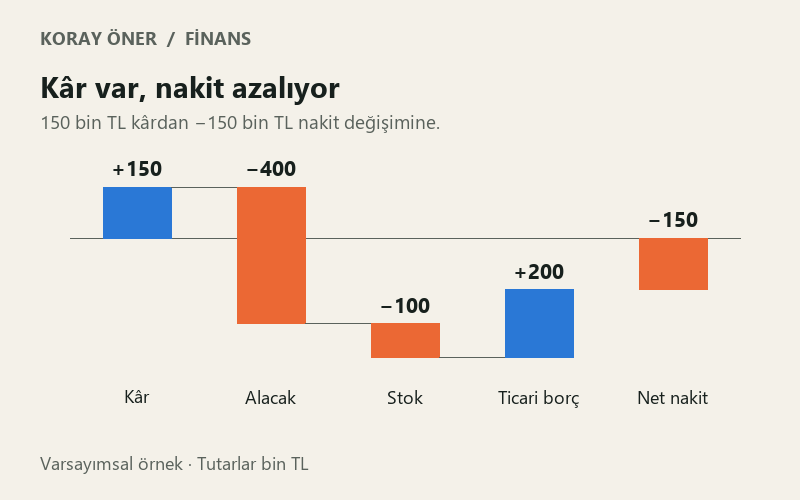
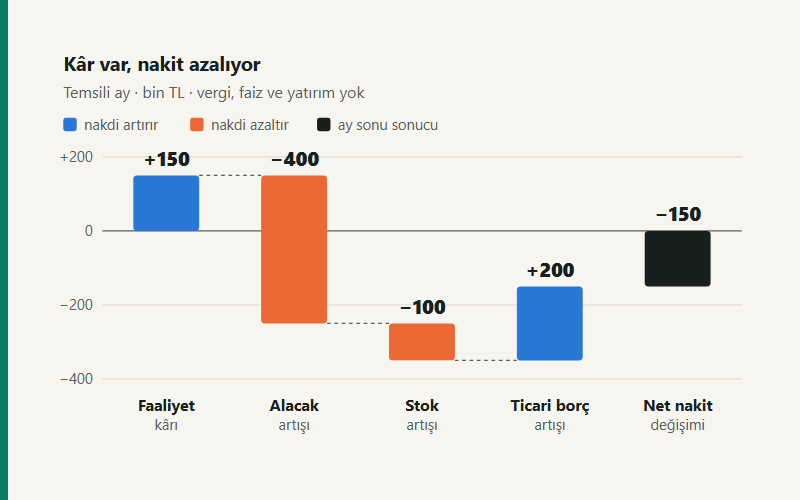
Move the two finance agenda figures into the article figure system
The ciro and enflasyon articles had Pillow-drawn PNGs outside the
system: different ground, no brand stripe, raster text. Both are now
KAPAKLAR entries in tools/makale-gorsel.js, drawn from the articles'
own assumptions (a guard throws if they drift from the text), and get
the same share PNG, card PNG and SVG body figure as every other
article.

The inflation chart now shows the article's point: each bar splits the
previous price from the year's increase, so the rate halving from 40%
to 20% visibly cuts the TL increase only from 400 to 280. The profit
chart is a proper cash bridge with a gridded zero line.

tools/finans-gundemi-gorselleri.py is removed.

diff --git a/tools/makale-gorsel.js b/tools/makale-gorsel.js
@@ -1540,7 +1540,138 @@ function promosyonNetDeger() {
     '" stroke="' + R.izgara + '" stroke-width="1.5"/>' + cubuk + '</svg>';
 }
 
+/* Ciro yazısı — kâr–nakit köprüsü. Varsayımlar yazının sayi-testi.js'iyle
+   aynı: 1.000.000 TL satış, %70 SMM, 150.000 TL gider; alacak +400, stok
+   +100, ticari borç +200 bin TL. Artı adım mavi, eksi adım turuncu; sonuç
+   çubuğu mürekkep: akış değil, varılan yer. */
+function kariNakitKoprusu() {
+  var SATIS = 1000000, SMM = 700000, GIDER = 150000;
+  var kar = (SATIS - SMM - GIDER) / 1000;
+  var adimlar = [
+    { ad: "Faaliyet", ad2: "kârı", v: kar },
+    { ad: "Alacak", ad2: "artışı", v: -400 },
+    { ad: "Stok", ad2: "artışı", v: -100 },
+    { ad: "Ticari borç", ad2: "artışı", v: 200 }
+  ];
+  var net = adimlar.reduce(function (t, a) { return t + a.v; }, 0);
+  var W = 600, H = 360, SOL = 56, SAG = 580, UST = 104, ALT = 286, UST_V = 200, ALT_V = -400;
+  function y(v) { return UST + (ALT - UST) * ((UST_V - v) / (UST_V - ALT_V)); }
+  function isaretli(v) { return (v > 0 ? "+" : v < 0 ? "\u2212" : "") + nf0.format(Math.abs(v)); }
+  var gen = (SAG - SOL) / 5, w = 54;
+
+  var izgara = [200, 0, -200, -400].map(function (v) {
+    return '<path d="M' + SOL + " " + y(v).toFixed(1) + " H" + SAG + '" stroke="' +
+      (v === 0 ? R.ikincil : R.izgara) + '" stroke-width="1"/>' +
+      '<text x="' + (SOL - 8) + '" y="' + (y(v) + 4).toFixed(1) + '" font-size="12" fill="' +
+      R.ikincil + '" text-anchor="end">' + isaretli(v) + "</text>";
+  }).join("");
+
+  var duzey = 0, cubuk = "";
+  adimlar.concat([{ ad: "Net nakit", ad2: "değişimi", v: net, toplam: true }]).forEach(function (a, i) {
+    var bas = a.toplam ? 0 : duzey, son = a.toplam ? net : duzey + a.v;
+    var cx = SOL + gen * (i + 0.5), ust = Math.min(y(bas), y(son)), boy = Math.abs(y(bas) - y(son));
+    var renk = a.toplam ? R.murekkep : (a.v >= 0 ? R.s1 : R.s2);
+    cubuk += '<rect x="' + (cx - w / 2).toFixed(1) + '" y="' + ust.toFixed(1) + '" width="' + w +
+      '" height="' + boy.toFixed(1) + '" rx="3" fill="' + renk + '"/>' +
+      '<text x="' + cx.toFixed(1) + '" y="' + (ust - 8).toFixed(1) + '" text-anchor="middle" font-size="16" ' +
+      'font-weight="800" fill="' + R.murekkep + '">' + isaretli(a.v) + "</text>" +
+      '<text x="' + cx.toFixed(1) + '" y="' + (ALT + 26) + '" text-anchor="middle" font-size="13" ' +
+      'font-weight="700" fill="' + R.murekkep + '">' + esc(a.ad) + "</text>" +
+      '<text x="' + cx.toFixed(1) + '" y="' + (ALT + 42) + '" text-anchor="middle" font-size="12" fill="' +
+      R.ikincil + '">' + esc(a.ad2) + "</text>";
+    if (!a.toplam && i < 3) {
+      cubuk += '<path d="M' + (cx + w / 2).toFixed(1) + " " + y(son).toFixed(1) + " H" +
+        (cx + gen - w / 2).toFixed(1) + '" stroke="' + R.ikincil + '" stroke-width="1" stroke-dasharray="3 3"/>';
+    }
+    duzey = son;
+  });
+  if (net !== -150) throw new Error("kâr–nakit köprüsü yazıyla ayrıştı: " + net);
+
+  function anahtar(x, renk, metin) {
+    return '<rect x="' + x + '" y="72" width="11" height="11" rx="2" fill="' + renk + '"/>' +
+      '<text x="' + (x + 17) + '" y="82" font-size="12" fill="' + R.ikincil + '">' + metin + "</text>";
+  }
+  return '<svg viewBox="0 0 ' + W + " " + H + '" width="' + W + '" height="' + H +
+    '" role="img" aria-label="Faaliyet kârı artı 150 bin TL; alacak, stok ve ticari borç ' +
+    'değişimlerinden sonra net nakit değişimi eksi 150 bin TL">' +
+    '<text x="24" y="34" font-size="16" font-weight="700" fill="' + R.murekkep +
+    '">Kâr var, nakit azalıyor</text>' +
+    '<text x="24" y="56" font-size="13" fill="' + R.ikincil +
+    '">Temsili ay · bin TL · vergi, faiz ve yatırım yok</text>' +
+    anahtar(24, R.s1, "nakdi artırır") + anahtar(128, R.s2, "nakdi azaltır") +
+    anahtar(232, R.murekkep, "ay sonu sonucu") +
+    izgara + cubuk + "</svg>";
+}
+
+/* Enflasyon yazısı — sabit sepet. Oran %40'tan %20'ye yarıya iniyor, ama
+   ikinci artış yükselmiş düzeye uygulandığı için TL artışı yalnız 400'den
+   280'e düşüyor. Çubuk iki parça: önceki fiyat (mavi) + yılın artışı
+   (turuncu). Rakamlar yazının sayi-testi.js'iyle aynı. */
+function sepetOranDuzey() {
+  var BAS = 1000, ORAN = [0.40, 0.20];
+  var d1 = BAS * (1 + ORAN[0]), d2 = d1 * (1 + ORAN[1]);
+  var veri = [
+    { ad: "Başlangıç", ad2: "", onceki: BAS, artis: 0 },
+    { ad: "1. yıl sonu", ad2: "enflasyon %" + Math.round(ORAN[0] * 100), onceki: BAS, artis: d1 - BAS },
+    { ad: "2. yıl sonu", ad2: "enflasyon %" + Math.round(ORAN[1] * 100), onceki: d1, artis: d2 - d1 }
+  ];
+  if (Math.round(d2) !== 1680 || Math.round((d2 / BAS - 1) * 100) !== 68) throw new Error("sepet yazıyla ayrıştı");
+  var W = 600, H = 360, SOL = 40, SAG = 580, UST = 104, ALT = 286, TAVAN = 1800;
+  function y(v) { return ALT - (ALT - UST) * (v / TAVAN); }
+  var gen = (SAG - SOL) / 3, w = 72;
+  var cubuk = "";
+  veri.forEach(function (d, i) {
+    var cx = SOL + gen * (i + 0.5), x0 = cx - w / 2, top = d.onceki + d.artis;
+    cubuk += '<rect x="' + x0.toFixed(1) + '" y="' + y(d.onceki).toFixed(1) + '" width="' + w +
+      '" height="' + (ALT - y(d.onceki)).toFixed(1) + '" rx="3" fill="' + R.s1 + '"/>';
+    if (d.artis) {
+      // 2px zemin boşluğu: iki parça tek blok gibi okunmasın.
+      cubuk += '<rect x="' + x0.toFixed(1) + '" y="' + y(top).toFixed(1) + '" width="' + w +
+        '" height="' + (y(d.onceki) - y(top) - 2).toFixed(1) + '" rx="3" fill="' + R.s2 + '"/>' +
+        '<text x="' + (x0 + w + 10).toFixed(1) + '" y="' + ((y(top) + y(d.onceki)) / 2 + 5).toFixed(1) +
+        '" font-size="14" font-weight="800" fill="' + R.murekkep + '">+' + nf0.format(d.artis) + " TL</text>";
+    }
+    cubuk += '<text x="' + cx.toFixed(1) + '" y="' + (y(top) - 10).toFixed(1) + '" text-anchor="middle" ' +
+      'font-size="16" font-weight="800" fill="' + R.murekkep + '">' + nf0.format(top) + " TL</text>" +
+      '<text x="' + cx.toFixed(1) + '" y="' + (ALT + 26) + '" text-anchor="middle" font-size="13" ' +
+      'font-weight="700" fill="' + R.murekkep + '">' + esc(d.ad) + "</text>" +
+      (d.ad2 ? '<text x="' + cx.toFixed(1) + '" y="' + (ALT + 42) + '" text-anchor="middle" font-size="12" fill="' +
+        R.ikincil + '">' + esc(d.ad2) + "</text>" : "");
+    if (i < 2) {
+      // Bir sonraki yılın artışı bu düzeyin üstüne biniyor.
+      cubuk += '<path d="M' + (x0 + w).toFixed(1) + " " + y(top).toFixed(1) + " H" +
+        (cx + gen - w / 2).toFixed(1) + '" stroke="' + R.ikincil + '" stroke-width="1" stroke-dasharray="3 3"/>';
+    }
+  });
+  function anahtar(x, renk, metin) {
+    return '<rect x="' + x + '" y="72" width="11" height="11" rx="2" fill="' + renk + '"/>' +
+      '<text x="' + (x + 17) + '" y="82" font-size="12" fill="' + R.ikincil + '">' + metin + "</text>";
+  }
+  return '<svg viewBox="0 0 ' + W + " " + H + '" width="' + W + '" height="' + H +
+    '" role="img" aria-label="Varsayımsal sabit sepet 1.000 TL; yüzde 40 artışla 1.400 TL, ' +
+    'sonraki yüzde 20 artışla 1.680 TL olur">' +
+    '<text x="24" y="34" font-size="16" font-weight="700" fill="' + R.murekkep +
+    '">Oran yarıya iniyor, sepet pahalanmaya devam ediyor</text>' +
+    '<text x="24" y="56" font-size="13" fill="' + R.ikincil +
+    '">Varsayımsal sabit sepet · iki yılda toplam artış %' + Math.round((d2 / BAS - 1) * 100) + "</text>" +
+    anahtar(24, R.s1, "önceki fiyat") + anahtar(126, R.s2, "yılın artışı") +
+    '<path d="M' + SOL + " " + ALT + " H" + SAG + '" stroke="' + R.ikincil + '" stroke-width="1"/>' +
+    cubuk + "</svg>";
+}
+
 var KAPAKLAR = {
+  "ciro-artarken-nakit-neden-azalir": {
+    kicker: "Finans · İşletme sermayesi",
+    baslik: "Ciro artarken nakit neden azalır?",
+    alt: "150 bin TL kârdan eksi 150 bin TL nakde",
+    cizim: kariNakitKoprusu
+  },
+  "enflasyon-duserken-fiyatlar-neden-dusmuyor": {
+    kicker: "Finans · Hane bütçesi",
+    baslik: "Enflasyon düşerken fiyatlar neden düşmüyor?",
+    alt: "Artış hızı yarıya iniyor, sepet yine 280 TL pahalanıyor",
+    cizim: sepetOranDuzey
+  },
   "emekli-promosyonunun-ekonomisi": {
     kicker: "Finans",
     baslik: "Emekli promosyonunun ekonomisi",

diff --git a/makaleler/ciro-artarken-nakit-neden-azalir/index.html b/makaleler/ciro-artarken-nakit-neden-azalir/index.html
@@ -171,7 +171,7 @@
 <p>Nakit köprüsünü sade tutmak için örnekte vergi, KDV, faiz, amortisman, yatırım harcaması ve kredi hareketi bulunmuyor. Bütün satışlar aynı dönemde gelir olarak kaydediliyor; iadeler ve tahsil edilemeyen alacaklar yok. Stoklar maliyetle, ticari alacaklar satış tutarıyla izleniyor. Bunlar Türkiye’deki işletmelerin ortalaması değil, hesap varsayımlarıdır.</p>
 <div class="table-wrap" role="region" aria-label="Kârdan nakde geçiş" tabindex="0"><table><caption>Temsili ayın kâr–nakit köprüsü</caption><thead><tr><th scope="col">Kalem</th><th scope="col">Nakit hesabına etkisi</th></tr></thead><tbody><tr><th scope="row">Faaliyet kârı</th><td>+150.000 TL</td></tr><tr><th scope="row">Ticari alacak artışı</th><td>−400.000 TL</td></tr><tr><th scope="row">Stok artışı</th><td>−100.000 TL</td></tr><tr><th scope="row">Ticari borç artışı</th><td>+200.000 TL</td></tr><tr><th scope="row">Faaliyetten net nakit değişimi</th><td><strong>−150.000 TL</strong></td></tr></tbody></table></div>
 <p>Alacak artışı, kayda giren satışın bir bölümünün henüz tahsil edilmediğini gösterir. Stok artışı, satılan malların maliyetinden daha fazla mal alındığı anlamına gelir. Ticari borç artışı ise alımların bir bölümünün henüz ödenmediğini, tedarikçinin işletmeyi finanse ettiğini gösterir. Bu örnekte dönem başındaki 250.000 TL nakit, dönem sonunda 100.000 TL’ye iner.</p>
-<figure class="ed-veri-gorseli"><img src="../../images/makale/ciro-artarken-nakit-neden-azalir-kart.png" width="800" height="500" decoding="async" alt="Temsili ayda faaliyet kârı artı 150 bin TL iken alacak, stok ve ticari borç değişimleri sonunda nakit değişimi eksi 150 bin TL olur."><figcaption>Alacak ve stokta bağlı kalan para, tedarikçi vadesinin sağladığı finansmanı aşıyor. Kârın artması aynı ayın nakit bakiyesini artırmaya yetmiyor.</figcaption></figure>
+<figure class="ed-veri-gorseli"><img src="../../images/makale/ciro-artarken-nakit-neden-azalir-kart.svg" width="800" height="500" decoding="async" alt="Temsili ayda faaliyet kârı artı 150 bin TL iken alacak, stok ve ticari borç değişimleri sonunda nakit değişimi eksi 150 bin TL olur."><figcaption>Alacak ve stokta bağlı kalan para, tedarikçi vadesinin sağladığı finansmanı aşıyor. Kârın artması aynı ayın nakit bakiyesini artırmaya yetmiyor.</figcaption></figure>
 <p>Hesabı tahsilat ve ödemelerden de kontrol edebiliriz: 1.000.000 TL satıştan alacak artışı çıkarılınca tahsilat 600.000 TL olur. 700.000 TL satılan mal maliyetine 100.000 TL stok artışı eklenince alım 800.000 TL’dir. Bunun 200.000 TL’si ticari borç artışıyla ertelendiği için tedarikçiye ödeme 600.000 TL olur. Diğer 150.000 TL gider de ödendiğinde <code>600.000 − 600.000 − 150.000 = −150.000 TL</code> kalır.</p>
 <p>Kârın nakit dışı unsurlar ve işletme sermayesi değişimleriyle düzeltilmesi, nakit akışı analizinin temel ayrımıdır. Buradaki köprü basitleştirilmiştir; bir şirketin tam finansal tablosu veya mevzuata uygun raporlama şablonu olarak kullanılmamalıdır. <a href="https://www.ifrs.org/issued-standards/list-of-standards/ias-7-statement-of-cash-flows/">Kaynak: IFRS Foundation, IAS 7 — Nakit Akış Tablosu.</a></p>
 <h2 id="dongu">Vade uzadığında kaç lira daha bağlanır?</h2>

diff --git a/makaleler/enflasyon-duserken-fiyatlar-neden-dusmuyor/index.html b/makaleler/enflasyon-duserken-fiyatlar-neden-dusmuyor/index.html
@@ -169,7 +169,7 @@
 <p>Bu iki oran farklı sorulara cevap verir. Yıllık oran, Ağustos 2026’yı Ağustos 2025’le; aylık oran, Ağustos 2026’yı Temmuz 2026’yla karşılaştırır. “Bu ay fiyatlar %31,51 arttı” demek yanlış olur. Aynı şekilde %1,84’ü gelecek her ay için gerçekleşecekmiş gibi kullanmak da bir tahmini veri yerine koyar. Bu yazının veri kesim tarihi <strong>22 Eylül 2026</strong>; henüz açıklanmamış eylül ayı gerçekleşmesine ilişkin bir iddia içermez.</p>
 <h2 id="duzey">1.000 TL’lik sepet üzerinden oran ve düzey</h2>
 <p>Fiyatı başlangıçta 1.000 TL olan değişmeyen bir sepet düşünün. Birinci yıl fiyatı %40 artarsa 1.400 TL olur. İkinci yıl enflasyon %20’ye düşerse yeni fiyat 1.680 TL’dir. Artış oranı yarıya inmiştir; fakat sepet ikinci yılda da 280 TL pahalanmıştır. İki yıllık toplam artış %60 değil, <strong>%68</strong> olur: ikinci artış, ilk yılın sonunda yükselmiş olan tutara uygulanır.</p>
-<figure class="ed-veri-gorseli"><img src="../../images/makale/enflasyon-duserken-fiyatlar-neden-dusmuyor-kart.png" width="800" height="500" decoding="async" alt="Varsayımsal sabit sepet başlangıçta 1.000 TL, yüzde 40 artıştan sonra 1.400 TL ve sonraki yüzde 20 artıştan sonra 1.680 TL olur."><figcaption>Artış hızı %40’tan %20’ye inerken sepetin fiyatı yükselmeye devam eder. Değerler açıklayıcı bir örnektir; Türkiye’nin gerçekleşmiş yıllık serisi değildir.</figcaption></figure>
+<figure class="ed-veri-gorseli"><img src="../../images/makale/enflasyon-duserken-fiyatlar-neden-dusmuyor-kart.svg" width="800" height="500" decoding="async" alt="Varsayımsal sabit sepet başlangıçta 1.000 TL, yüzde 40 artıştan sonra 1.400 TL ve sonraki yüzde 20 artıştan sonra 1.680 TL olur."><figcaption>Artış hızı %40’tan %20’ye inerken sepetin fiyatı yükselmeye devam eder. Değerler açıklayıcı bir örnektir; Türkiye’nin gerçekleşmiş yıllık serisi değildir.</figcaption></figure>
 <p>Bu örnekteki yavaşlama <em>dezenflasyon</em>dur. Fiyatlar genel düzeyinin düşmesi ise <em>deflasyon</em>dur. Tek bir üründe indirim görülmesi, bütün ekonomide deflasyon yaşandığını göstermez. Benzer biçimde tek bir faturanın çok yükselmesi de genel endeksin aynı oranda arttığı anlamına gelmez. <a href="https://www.tcmb.gov.tr/wps/wcm/connect/2d9f2c1d-18eb-4124-8fd9-a4ea189a24ad/100soruweb1.pdf?MOD=AJPERES">Kaynak: TCMB, Enflasyon ve Para Politikası.</a></p>
 <p>Oran ile tutarı ayırmak günlük planlamayı kolaylaştırır. Tamamen temsili olarak, 50.000 TL’lik değişmeyen bir sepetin fiyatı bir ayda %1,84 artsa yeni maliyeti 50.920 TL olur. Bu işlem, ülke ortalamasını sizin bütçenize uygulayan bir senaryodur; her hanenin ağustos ayında tam 920 TL ek harcama yaptığını söylemez.</p>
 <h2 id="baz">Baz etkisi: karşılaştırmanın diğer tarafı da değişir</h2>

diff --git a/makaleler/index.html b/makaleler/index.html
@@ -214,7 +214,7 @@
           <li class="ed-item">
             <figure class="ed-figure">
               <a href="enflasyon-duserken-fiyatlar-neden-dusmuyor/" tabindex="-1" aria-hidden="true">
-                <img class="ed-cover" src="../images/makale/enflasyon-duserken-fiyatlar-neden-dusmuyor-kart.png" width="800" height="500"
+                <img class="ed-cover" src="../images/makale/enflasyon-duserken-fiyatlar-neden-dusmuyor-kart.svg" width="800" height="500"
                      sizes="(max-width: 700px) 100vw, 260px" alt="Sabit sepetin fiyatı başlangıçta 1.000 TL, ilk artışla 1.400 TL, daha düşük ikinci artışla 1.680 TL oluyor." loading="lazy" decoding="async">
               </a>
             </figure>
@@ -234,7 +234,7 @@
           <li class="ed-item">
             <figure class="ed-figure">
               <a href="ciro-artarken-nakit-neden-azalir/" tabindex="-1" aria-hidden="true">
-                <img class="ed-cover" src="../images/makale/ciro-artarken-nakit-neden-azalir-kart.png" width="800" height="500"
+                <img class="ed-cover" src="../images/makale/ciro-artarken-nakit-neden-azalir-kart.svg" width="800" height="500"
                      sizes="(max-width: 700px) 100vw, 260px" alt="Artı 150.000 TL faaliyet kârından alacak, stok ve borç değişimlerine geçildiğinde eksi 150.000 TL nakit hareketi oluşuyor." loading="lazy" decoding="async">
               </a>
             </figure>

diff --git a/index.html b/index.html
@@ -1790,7 +1790,7 @@
           <li class="ed-item">
             <figure class="ed-figure">
               <a href="makaleler/enflasyon-duserken-fiyatlar-neden-dusmuyor/" tabindex="-1" aria-hidden="true">
-                <img class="ed-cover" src="images/makale/enflasyon-duserken-fiyatlar-neden-dusmuyor-kart.png" width="800" height="500"
+                <img class="ed-cover" src="images/makale/enflasyon-duserken-fiyatlar-neden-dusmuyor-kart.svg" width="800" height="500"
                      sizes="(max-width: 700px) 100vw, 260px" alt="Sabit sepetin fiyatı başlangıçta 1.000 TL, ilk artışla 1.400 TL, daha düşük ikinci artışla 1.680 TL oluyor." loading="lazy" decoding="async">
               </a>
             </figure>
